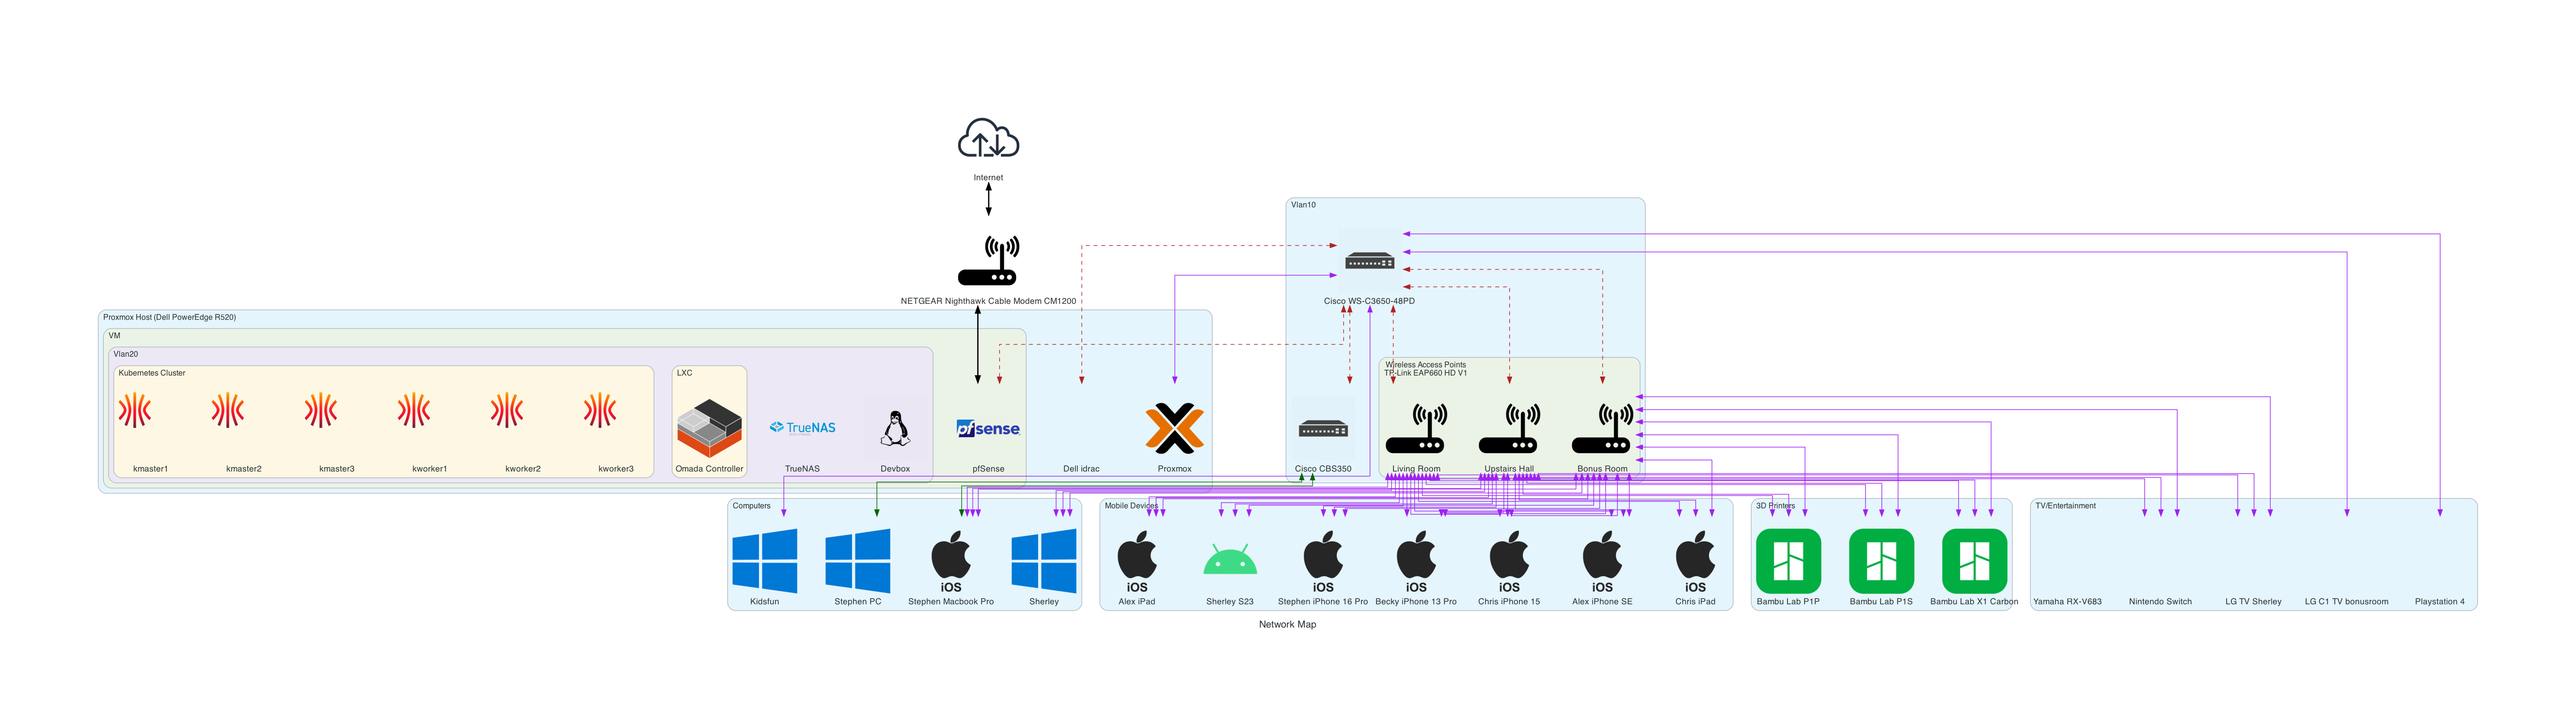
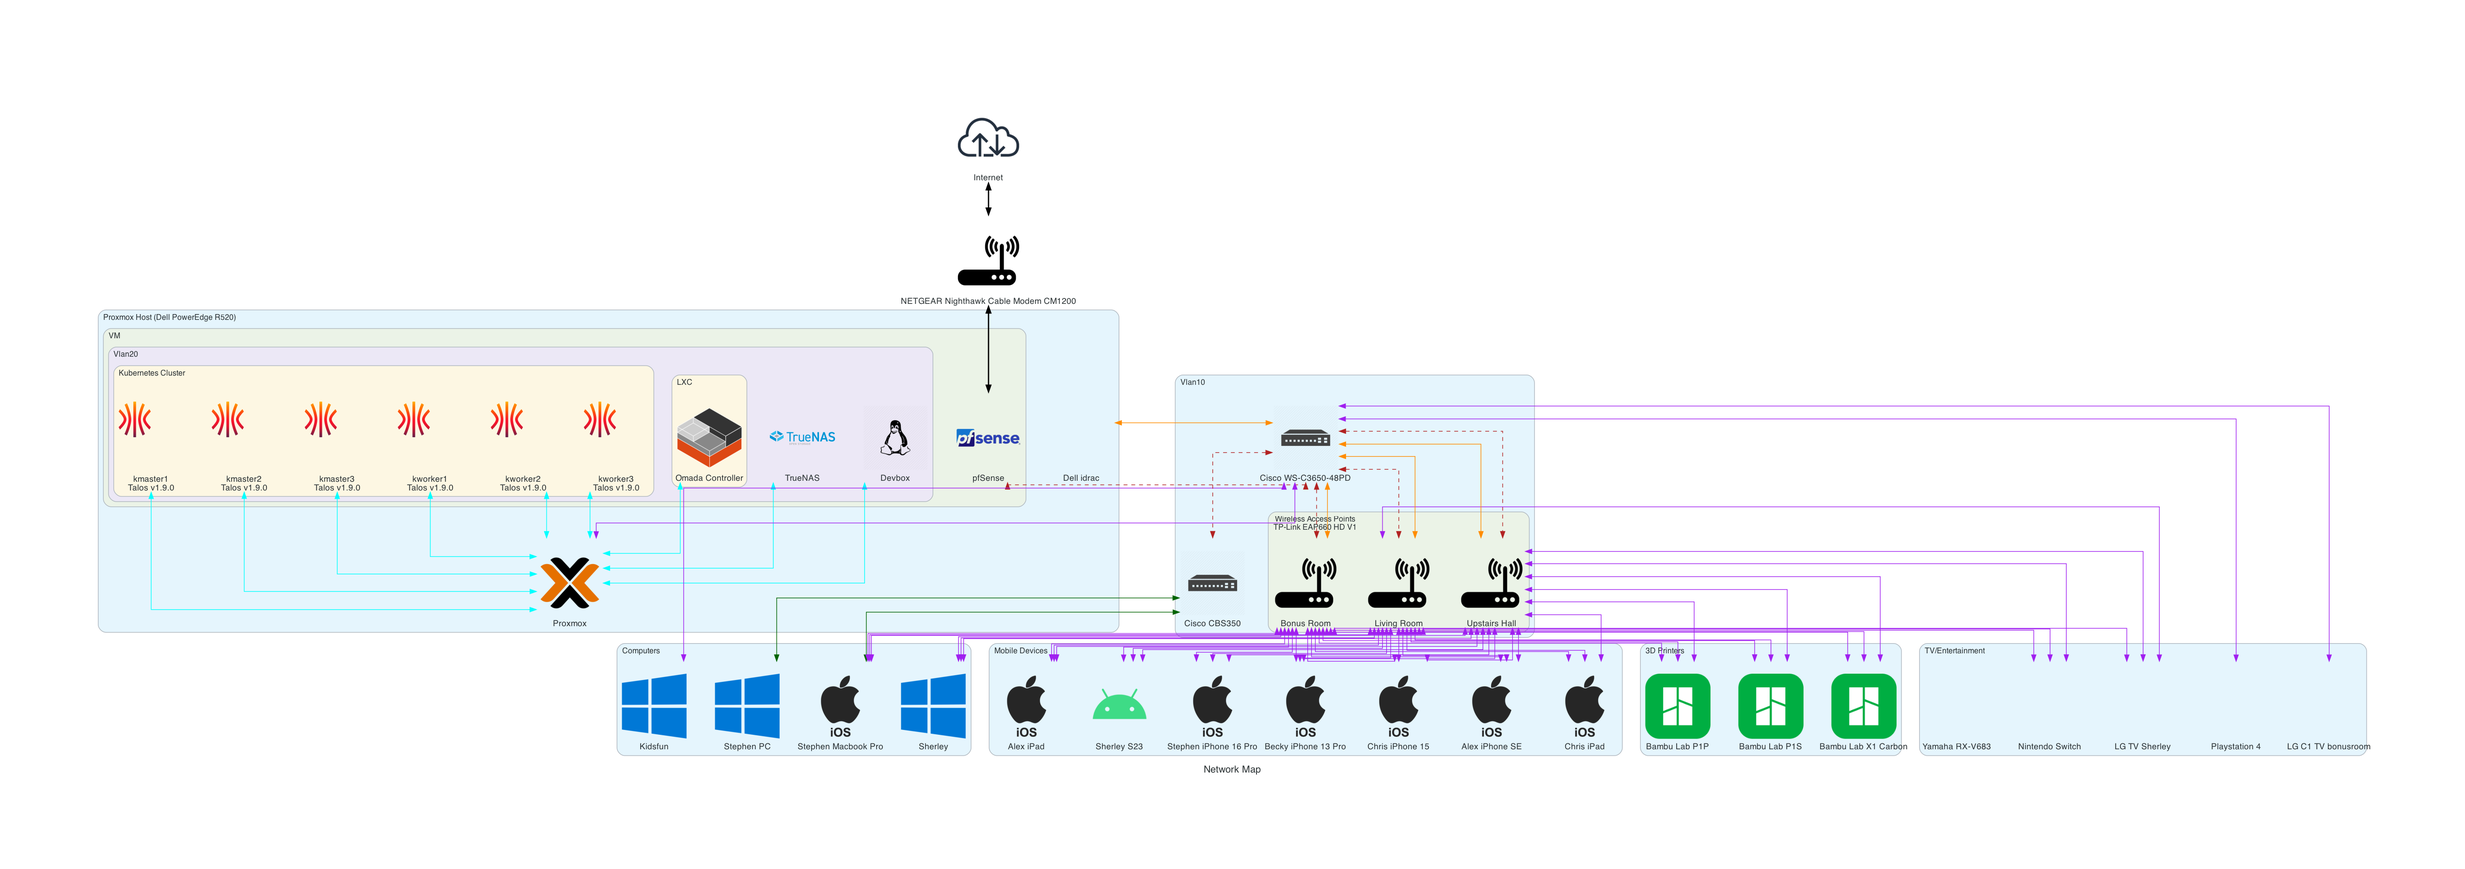
docs: :memo: Update network diagram

Changed region(s): [[0.0311, 0.2463, 0.9628, 0.8929], [0.3727, 0.1539, 0.4348, 0.2155]]

diff --git a/docs/src/images/network_diagram.py b/docs/src/images/network_diagram.py
@@ -1,3 +1,5 @@
+import yaml
+
 from diagrams import Cluster, Diagram, Edge
 from diagrams.onprem.compute import Server
 from diagrams.onprem.network import Internet, Pfsense
@@ -8,116 +10,139 @@ from diagrams.generic.network import Router, Switch
 from diagrams.generic.os import LinuxGeneral, IOS, Android, Windows
 from diagrams.generic.blank import Blank
 from diagrams.custom import Custom
+from pathlib import Path
 
-vlan0: Edge = Edge(color="purple")
-vlan10_mgmt: Edge = Edge(color="darkorange")
-vlan20_server: Edge = Edge(color="lightblue")
-vlan30_iot: Edge = Edge(color="black")
-vlan40_guest: Edge = Edge(color="darkred")
-vlan50_trusted: Edge = Edge(color="darkgreen")
-internet: Edge = Edge(color="black", style="bold")
-trunk: Edge = Edge(color="firebrick", style="dashed")
+def main() -> None:
+    talos_config_path: Path = Path('../../../kubernetes/bootstrap/talos/talconfig.yaml')
 
-with Diagram("Network Map", show=False, filename="network_map", direction="TB", strict=True):
+    with talos_config_path.open("r") as talos_config_file:
+        config_data = yaml.safe_load(talos_config_file)
 
-    source:Internet = Internet("Internet")
+    talos_version = config_data["talosVersion"]
 
-    modem:Router = Router("NETGEAR Nighthawk Cable Modem CM1200")
+    vlan0: Edge = Edge(color="purple")
+    vlan10_mgmt: Edge = Edge(color="darkorange")
+    vlan20_server: Edge = Edge(color="cyan")
+    vlan30_iot: Edge = Edge(color="black")
+    vlan40_guest: Edge = Edge(color="darkred")
+    vlan50_trusted: Edge = Edge(color="darkgreen")
+    internet: Edge = Edge(color="black", style="bold")
+    trunk: Edge = Edge(color="firebrick", style="dashed")
 
+    with Diagram("Network Map", show=False, filename="network_map", direction="TB", strict=True):
 
-    with Cluster("Proxmox Host (Dell PowerEdge R520)"):
-        proxmox: Pve = Pve("Proxmox")
-        idrac:Blank = Blank("Dell idrac")
+        source:Internet = Internet("Internet")
 
-        with Cluster("VM"):
-            pfsense: Pfsense = Pfsense("pfSense")
-            with Cluster("Vlan20"):
-                truenas: Custom = Custom("TrueNAS", "./truenas_open_storage-logo-full-color-rgb.png")
-                devbox:LinuxGeneral = LinuxGeneral("Devbox")
-
-                with Cluster("Kubernetes Cluster"):
-                    talos_master_nodes: list[Custom] = [Custom(f"kmaster{i+1}", "talos_logo.svg") for i in range(3)]
-                    talos_worker_nodes: list[Custom] = [Custom(f"kworker{i+1}", "talos_logo.svg") for i in range(3)]
-
-                with Cluster("LXC"):
-                    omada_controller: LXC = LXC("Omada Controller")
+        modem:Router = Router("NETGEAR Nighthawk Cable Modem CM1200")
 
 
-    # with Cluster("VLan0"):
-    with Cluster("Mobile Devices"):
-        stephen_iphone: IOS = IOS("Stephen iPhone 16 Pro")
-        becky_iphone: IOS = IOS("Becky iPhone 13 Pro")
-        chris_iphone: IOS = IOS("Chris iPhone 15")
-        alex_iphone: IOS = IOS("Alex iPhone SE")
-        chris_ipad: IOS = IOS("Chris iPad")
-        alex_ipad: IOS = IOS("Alex iPad")
-        sherleyMD: Android = Android("Sherley S23")
+        with Cluster("Proxmox Host (Dell PowerEdge R520)"):
+            proxmox: Pve = Pve("Proxmox")
+            idrac:Blank = Blank("Dell idrac")
+
+            with Cluster("VM"):
+                pfsense: Pfsense = Pfsense("pfSense")
+                with Cluster("Vlan20"):
+                    truenas: Custom = Custom("TrueNAS", "./truenas_open_storage-logo-full-color-rgb.png")
+                    devbox: LinuxGeneral = LinuxGeneral("Devbox")
+
+                    with Cluster("Kubernetes Cluster"):
+                        talos_master_nodes: list[Custom] = [Custom(f"kmaster{i+1}\nTalos {talos_version}", "talos_logo.svg") for i in range(3)]
+                        talos_worker_nodes: list[Custom] = [Custom(f"kworker{i+1}\nTalos {talos_version}", "talos_logo.svg") for i in range(3)]
+
+                    with Cluster("LXC"):
+                        omada_controller: LXC = LXC("Omada Controller")
 
 
-    with Cluster("TV/Entertainment"):
-        receiver:Blank = Blank("Yamaha RX-V683")
-        nintendo_switch:Blank =  Blank("Nintendo Switch")
-        playstation:Blank = Blank("Playstation 4")
-        lgc1:Blank = Blank("LG C1 TV bonusroom")
-        sherleyTV:Blank = Blank("LG TV Sherley")
+        # with Cluster("VLan0"):
+        with Cluster("Mobile Devices"):
+            stephen_iphone: IOS = IOS("Stephen iPhone 16 Pro")
+            becky_iphone: IOS = IOS("Becky iPhone 13 Pro")
+            chris_iphone: IOS = IOS("Chris iPhone 15")
+            alex_iphone: IOS = IOS("Alex iPhone SE")
+            chris_ipad: IOS = IOS("Chris iPad")
+            alex_ipad: IOS = IOS("Alex iPad")
+            sherleyMD: Android = Android("Sherley S23")
 
 
-    with Cluster("Computers"):
-        kidsfunPC:Windows = Windows("Kidsfun")
-        sherleyPC:Windows = Windows("Sherley")
-        stephenmac:IOS = IOS("Stephen Macbook Pro")
-        stephenPC:Windows = Windows("Stephen PC")
+        with Cluster("TV/Entertainment"):
+            receiver:Blank = Blank("Yamaha RX-V683")
+            nintendo_switch:Blank =  Blank("Nintendo Switch")
+            playstation:Blank = Blank("Playstation 4")
+            lgc1:Blank = Blank("LG C1 TV bonusroom")
+            sherleyTV:Blank = Blank("LG TV Sherley")
 
 
-    with Cluster("3D Printers"):
-        bl_x1c: Custom = Custom("Bambu Lab X1 Carbon", "bl_logo.png")
-        bl_p1p: Custom = Custom("Bambu Lab P1P", "bl_logo.png")
-        bl_p1s: Custom = Custom("Bambu Lab P1S", "bl_logo.png")
+        with Cluster("Computers"):
+            kidsfunPC:Windows = Windows("Kidsfun")
+            sherleyPC:Windows = Windows("Sherley")
+            stephenmac:IOS = IOS("Stephen Macbook Pro")
+            stephenPC:Windows = Windows("Stephen PC")
 
 
-    with Cluster("Vlan10"):
-        main_switch:Switch = Switch("Cisco WS-C3650-48PD")
-        sub_switch:Switch = Switch("Cisco CBS350")
-
-        with Cluster("Wireless Access Points\nTP-Link EAP660 HD V1"):
-            ap_living:Router = Router("Living Room")
-            ap_uphall:Router = Router("Upstairs Hall")
-            ap_bonus:Router = Router("Bonus Room")
+        with Cluster("3D Printers"):
+            bl_x1c: Custom = Custom("Bambu Lab X1 Carbon", "bl_logo.png")
+            bl_p1p: Custom = Custom("Bambu Lab P1P", "bl_logo.png")
+            bl_p1s: Custom = Custom("Bambu Lab P1S", "bl_logo.png")
 
 
-    aps = [ap_bonus,ap_living,ap_uphall]
-    personal_md = [stephen_iphone,becky_iphone,chris_ipad,chris_ipad,alex_ipad,alex_iphone, sherleyMD]
-    tv: list[Blank] = [lgc1,sherleyTV]
+        with Cluster("Vlan10"):
+            main_switch:Switch = Switch("Cisco WS-C3650-48PD")
+            sub_switch:Switch = Switch("Cisco CBS350")
+
+            with Cluster("Wireless Access Points\nTP-Link EAP660 HD V1"):
+                ap_living:Router = Router("Living Room")
+                ap_uphall:Router = Router("Upstairs Hall")
+                ap_bonus:Router = Router("Bonus Room")
 
 
-    source >> internet << modem
-    modem >> internet << pfsense
-    pfsense >> trunk << main_switch
+        aps = [ap_bonus,ap_living,ap_uphall]
+        personal_md = [stephen_iphone,becky_iphone,chris_ipad,chris_ipad,alex_ipad,alex_iphone, sherleyMD]
+        kubernetes_cluster: list[list[Custom]] = [talos_master_nodes,talos_worker_nodes]
+        tv: list[Blank] = [lgc1,sherleyTV]
 
-    main_switch >> trunk << aps
-    main_switch >> trunk << idrac
-    main_switch >> trunk << sub_switch
 
-    main_switch >> vlan0 << proxmox
-    main_switch >> vlan0 << lgc1
-    main_switch >> vlan0 << kidsfunPC
-    main_switch >> vlan0 << playstation
+        source >> internet << modem
+        modem >> internet << pfsense
+        pfsense >> trunk << main_switch
 
-    aps >> vlan0 << nintendo_switch
-    aps >> vlan0 << sherleyPC
-    aps >> vlan0 << sherleyTV
-    aps >> vlan0 << stephenmac
-    aps >> vlan0 << stephen_iphone
-    aps >> vlan0 << becky_iphone
-    aps >> vlan0 << chris_iphone
-    aps >> vlan0 << alex_iphone
-    aps >> vlan0 << chris_ipad
-    aps >> vlan0 << alex_ipad
-    aps >> vlan0 << sherleyMD
-    aps >> vlan0 << bl_x1c
-    aps >> vlan0 << bl_p1p
-    aps >> vlan0 << bl_p1s
+        main_switch >> trunk << aps
+        main_switch >> trunk << sub_switch
 
-    sub_switch >> vlan50_trusted << stephenPC
-    sub_switch >> vlan50_trusted << stephenmac
+        main_switch >> vlan0 << proxmox
+        main_switch >> vlan0 << lgc1
+        main_switch >> vlan0 << kidsfunPC
+        main_switch >> vlan0 << playstation
 
+        aps >> vlan0 << nintendo_switch
+        aps >> vlan0 << sherleyPC
+        aps >> vlan0 << sherleyTV
+        aps >> vlan0 << stephenmac
+        aps >> vlan0 << stephen_iphone
+        aps >> vlan0 << becky_iphone
+        aps >> vlan0 << chris_iphone
+        aps >> vlan0 << alex_iphone
+        aps >> vlan0 << chris_ipad
+        aps >> vlan0 << alex_ipad
+        aps >> vlan0 << sherleyMD
+        aps >> vlan0 << bl_x1c
+        aps >> vlan0 << bl_p1p
+        aps >> vlan0 << bl_p1s
+
+        main_switch >> vlan10_mgmt << idrac
+        aps >> vlan10_mgmt << main_switch
+
+        talos_master_nodes >> vlan20_server << proxmox
+        talos_worker_nodes >> vlan20_server << proxmox
+        omada_controller >> vlan20_server << proxmox
+        truenas >> vlan20_server << proxmox
+        devbox >> vlan20_server << proxmox
+
+        sub_switch >> vlan50_trusted << stephenPC
+        sub_switch >> vlan50_trusted << stephenmac
+
+
+
+
+if __name__ == '__main__':
+    main()
